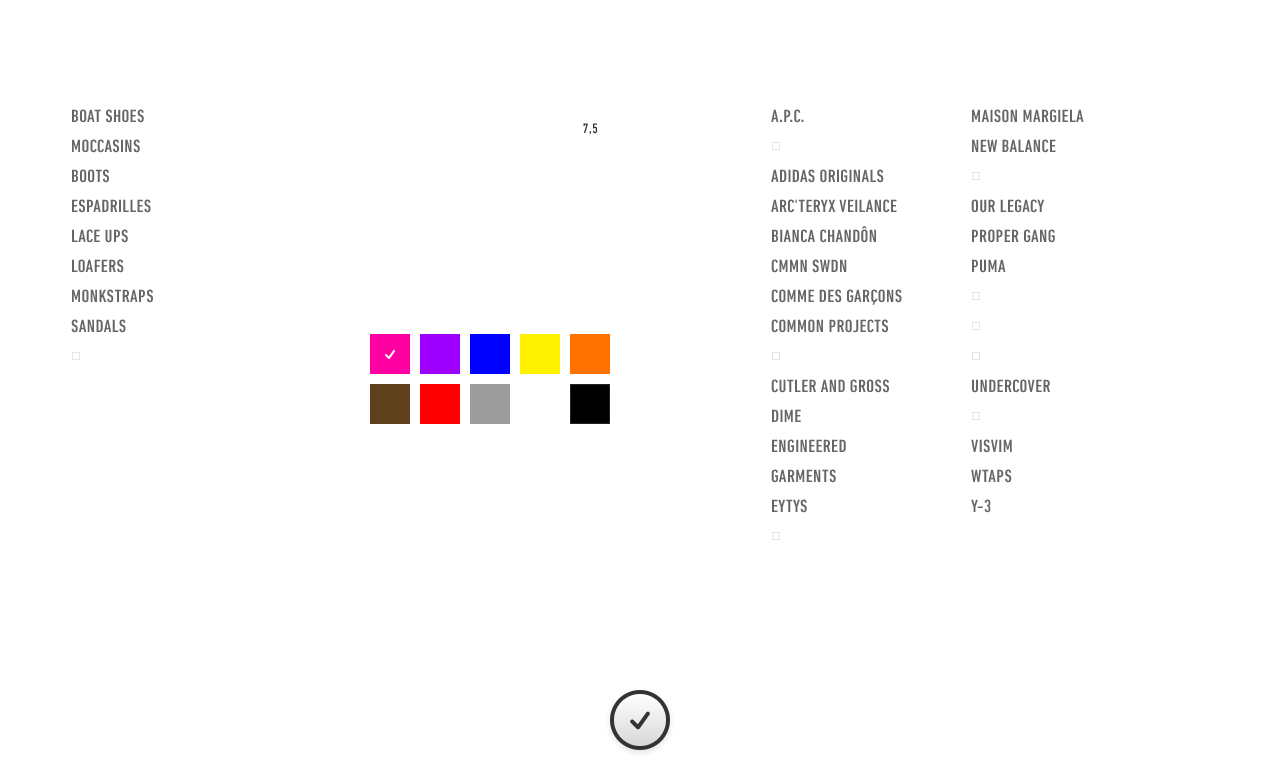
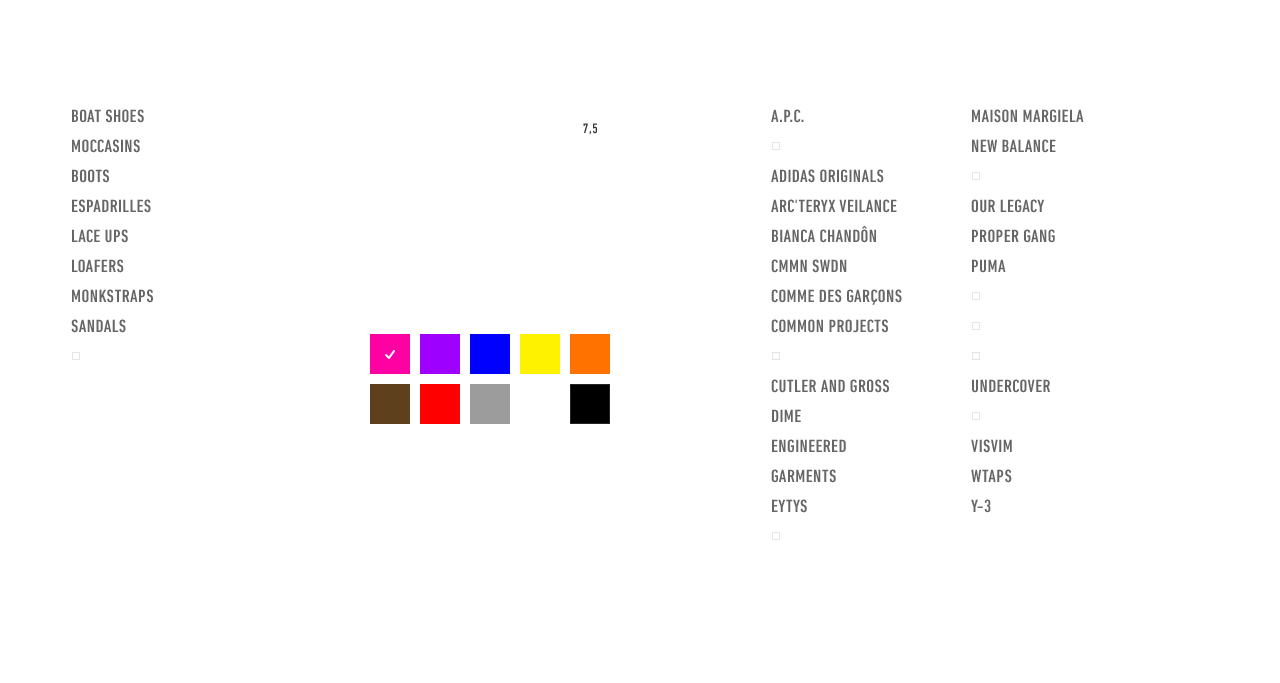
Modal layout

diff --git a/public/index.html b/public/index.html
@@ -246,8 +246,15 @@
 
             <!-- Filter Modal -->
             <div class="modal fade" id="myModal" role="dialog">
-                <button type="button" class="close" data-dismiss="modal">&times;</button>
-                <img class="img-responsive" src="img/filter-window.png" alt="">
+                <div class="content">
+                    <button type="button" class="close" data-dismiss="modal">&times;</button>
+                    <div class="row">   
+                        <div class="col-md-12 content--center">
+                            <img class="img-responsive img--center" src="img/filter-window.png" alt="">
+                            <button type="button" class="btn btn-default btn-circle btn-lg " data-dismiss="modal"><i class="glyphicon glyphicon-ok"></i></button>
+                        </div>
+                    </div>
+                </div>
                 <!--<div class="modal-dialog">
                     <div class="modal-content">
                         <div class="container-fluid">

diff --git a/public/css/main.css b/public/css/main.css
@@ -358,3 +358,26 @@ footer {
 /* Padding Right 5px */
 .p-r-10 {
   padding-right: 0.625em; }
+
+.btn-circle {
+  width: 30px;
+  height: 30px;
+  text-align: center;
+  padding: 6px 0;
+  font-size: 12px;
+  line-height: 1.428571429;
+  border-radius: 50%;
+  box-shadow: 1px 1px 11px 1px #333333; }
+
+.btn-circle.btn-lg {
+  width: 50px;
+  height: 50px;
+  padding: 10px 16px;
+  font-size: 18px;
+  line-height: 1.33; }
+
+.content--center {
+  text-align: center; }
+
+.img--center {
+  margin: 0 auto; }

diff --git a/scss/_modal.scss b/scss/_modal.scss
@@ -1,0 +1,26 @@
+.btn-circle {
+  width: 30px;
+  height: 30px;
+  text-align: center;
+  padding: 6px 0;
+  font-size: 12px;
+  line-height: 1.428571429;
+  border-radius: 50%;
+  box-shadow: 1px 1px 11px 1px $color_darkgray;
+}
+
+.btn-circle.btn-lg {
+  width: 50px;
+  height: 50px;
+  padding: 10px 16px;
+  font-size: 18px;
+  line-height: 1.33;
+}
+
+.content--center{
+	text-align:center;
+}
+
+.img--center{
+	margin: 0 auto
+}

diff --git a/scss/main.scss b/scss/main.scss
@@ -12,3 +12,4 @@
 @import 'footer';
 @import 'breakpoints';
 @import 'util';
+@import 'modal';
